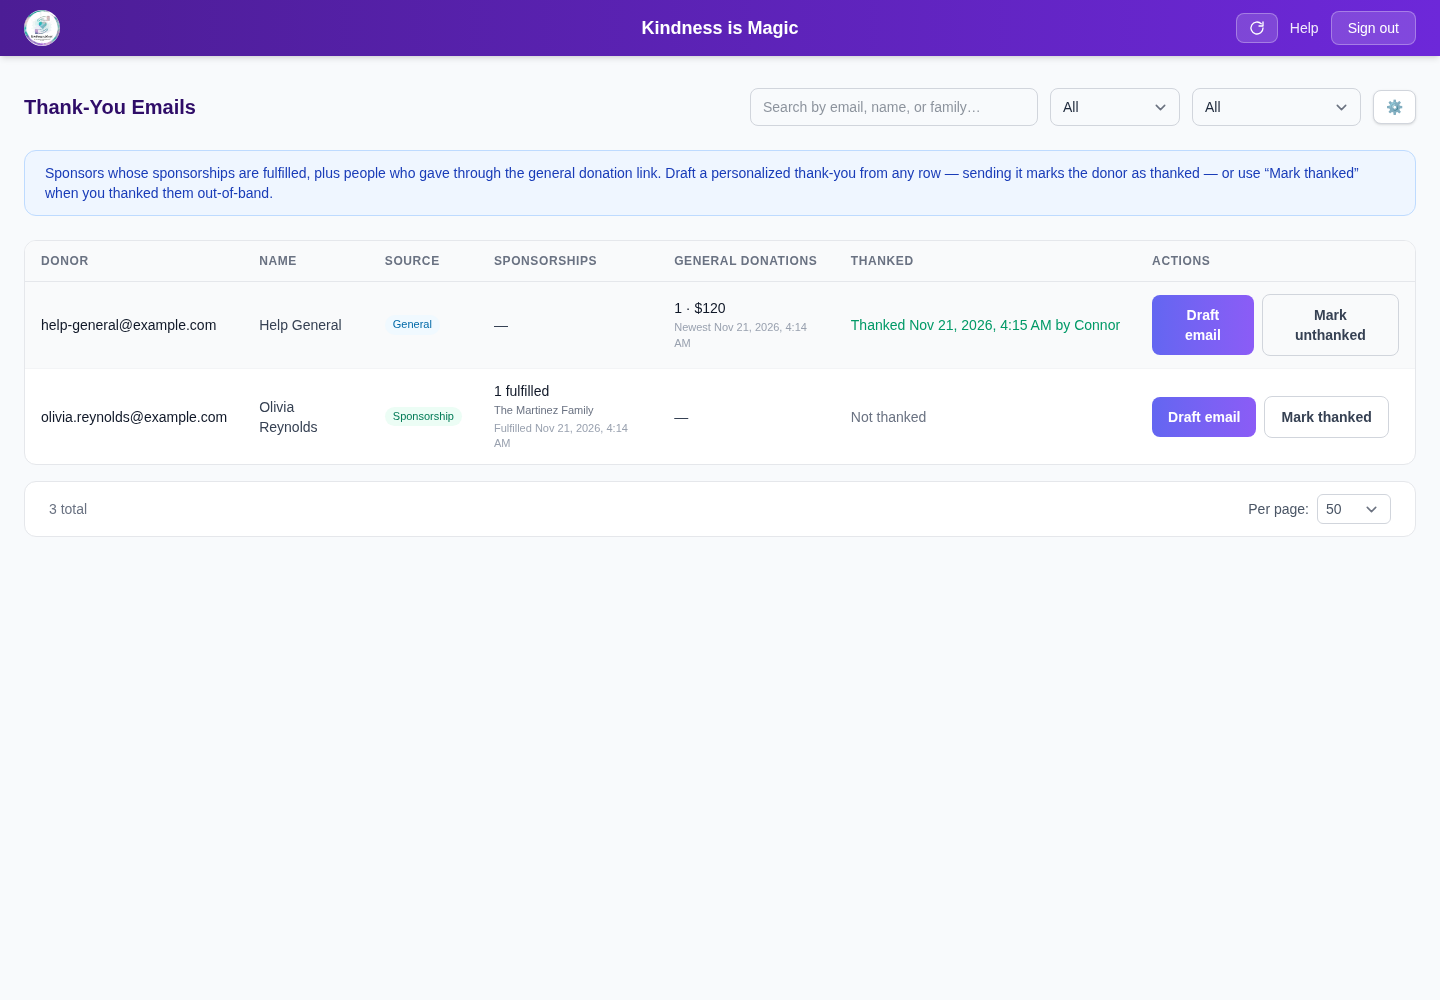
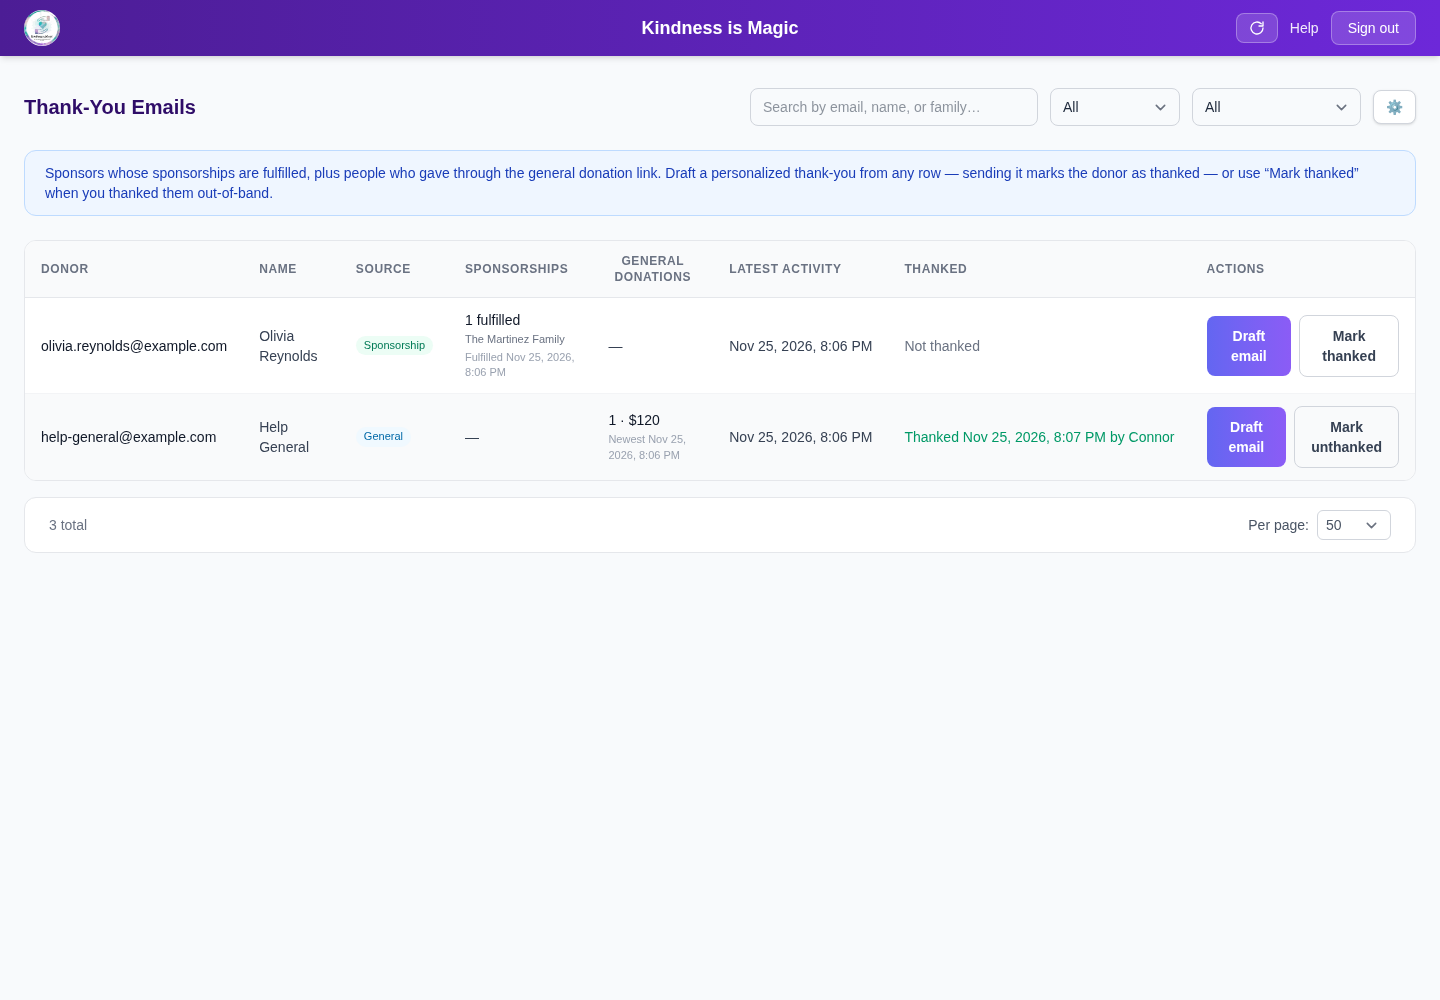
Added a 'most recent activity' thing for thank you email sort

diff --git a/frontend/src/pages/HelpAdmin.tsx b/frontend/src/pages/HelpAdmin.tsx
@@ -359,6 +359,10 @@ export default function HelpAdmin() {
                   with no email on the payment can't be listed — check the campaigns in the Zeffy dashboard for those.)
                 </li>
                 <li>
+                  <strong>Latest Activity</strong> shows the donor's most recent gift or fulfillment across both sides — the list is
+                  newest-first by default, so the donors you most recently owe a thank-you lead.
+                </li>
+                <li>
                   <strong>Thanked</strong> shows when the donor was marked thanked, and by whom. Unthanked donors read “Not thanked”.
                 </li>
               </ul>
@@ -376,8 +380,8 @@ export default function HelpAdmin() {
               </p>
               <h3>Finding a donor</h3>
               <p>
-                Search by donor email, name, or a sponsored family name, filter by thanked state and source, and click a column header to
-                sort — all to work through what's left.
+                The list is newest-first by default. Search by donor email, name, or a sponsored family name, filter by thanked state and
+                source, and click a column header to sort — all to work through what's left.
               </p>
             </>
           ),

diff --git a/frontend/src/pages/AdminThankYou.test.tsx b/frontend/src/pages/AdminThankYou.test.tsx
@@ -43,6 +43,7 @@ function makeDonor(overrides: Partial<ThankYouDonor> = {}): ThankYouDonor {
     general_payment_count: 0,
     general_total_cents: 0,
     latest_donation_at: null,
+    latest_activity_at: "2025-12-01T00:00:00Z",
     thanked_at: null,
     thanked_by_name: null,
     ...overrides,
@@ -84,6 +85,7 @@ describe("AdminThankYou", () => {
           general_payment_count: 2,
           general_total_cents: 12_500,
           latest_donation_at: "2025-12-10T00:00:00Z",
+          latest_activity_at: "2025-12-10T00:00:00Z",
           thanked_at: "2025-12-11T00:00:00Z",
           thanked_by_name: "Admin",
         })
@@ -100,6 +102,8 @@ describe("AdminThankYou", () => {
     expect(aliceRow).toHaveTextContent("The Example Family");
     expect(aliceRow).toHaveTextContent("Not thanked");
     expect(within(aliceRow).getByRole("button", { name: "Mark thanked" })).toBeInTheDocument();
+    // The Latest Activity column is sortable like the other derived columns
+    expect(screen.getByRole("button", { name: "Sort by Latest Activity" })).toBeInTheDocument();
 
     const bobRow = screen.getByText("bob@example.com").closest("tr")!;
     expect(bobRow).toHaveTextContent("General");

diff --git a/frontend/src/pages/AdminThankYou.tsx b/frontend/src/pages/AdminThankYou.tsx
@@ -57,6 +57,7 @@ const COLUMN_SORT_FIELD: Record<string, string | undefined> = {
   display_name: "display_name",
   sponsorships: "claim_count",
   general_donations: "general_total_cents",
+  latest_activity: "latest_activity_at",
   thanked: "thanked_at",
 };
 
@@ -67,6 +68,7 @@ const COLUMN_HEADERS: Record<string, string> = {
   source: "Source",
   sponsorships: "Sponsorships",
   general_donations: "General Donations",
+  latest_activity: "Latest Activity",
   thanked: "Thanked",
 };
 
@@ -317,6 +319,11 @@ export default function AdminThankYou() {
                         )}
                       </Td>
                     ),
+                  latest_activity: donor.latest_activity_at ? (
+                    <Td className="whitespace-nowrap text-sm text-gray-700">{formatDateTime(donor.latest_activity_at)}</Td>
+                  ) : (
+                    <Td className="text-sm text-gray-400">—</Td>
+                  ),
                   thanked: (
                     <Td className="whitespace-nowrap text-sm">
                       {donor.thanked_at ? (

diff --git a/frontend/src/types/columns.ts b/frontend/src/types/columns.ts
@@ -145,6 +145,7 @@ export const COLUMNS: Record<string, ColumnDef[]> = {
     { key: "source", label: "Source", visible: true },
     { key: "sponsorships", label: "Sponsorships", visible: true },
     { key: "general_donations", label: "General Donations", visible: true },
+    { key: "latest_activity", label: "Latest Activity", visible: true },
     { key: "thanked", label: "Thanked", visible: true },
   ],
   adminEmailCampaigns: [
@@ -208,5 +209,6 @@ export const COLUMN_FIELD_MAP: Record<string, string[]> = {
   // mark's timestamp + actor.
   sponsorships: ["claim_count", "claim_family_names", "latest_fulfilled_at"],
   general_donations: ["general_payment_count", "general_total_cents", "latest_donation_at"],
+  latest_activity: ["latest_activity_at"],
   thanked: ["thanked_at", "thanked_by_name"],
 };

diff --git a/frontend/src/hooks/useTableWidth.ts b/frontend/src/hooks/useTableWidth.ts
@@ -23,8 +23,8 @@ const DEFAULT_WIDTH_MODES: Record<string, TableWidthMode> = {
   // The purchaser's family column is hidden by default, so its table has
   // fewer columns than the other list pages — wide gives it more room.
   purchaserAssignedGifts: "wide",
-  // Six data columns plus a two-button action column — wide gives the
-  // multi-line cells room.
+  // Multi-line summary cells (counts, family lists, dates) plus a
+  // two-button action column — wide gives the table room.
   adminThankYou: "wide",
 };
 

diff --git a/frontend/src/types/domain.ts b/frontend/src/types/domain.ts
@@ -1010,6 +1010,8 @@ export interface ThankYouDonor {
   general_payment_count: number;
   general_total_cents: number;
   latest_donation_at: string | null;
+  /** Newest of the two side dates — non-null for every listable donor. */
+  latest_activity_at: string | null;
   /** Null until the admin marks the donor thanked (manual or via send). */
   thanked_at: string | null;
   thanked_by_name: string | null;

diff --git a/frontend/src/lib/thankYouDraft.test.ts b/frontend/src/lib/thankYouDraft.test.ts
@@ -12,6 +12,7 @@ const BASE: ThankYouDonor = {
   general_payment_count: 0,
   general_total_cents: 0,
   latest_donation_at: null,
+  latest_activity_at: null,
   thanked_at: null,
   thanked_by_name: null,
 };

diff --git a/backend/tests/test_admin_thank_you.py b/backend/tests/test_admin_thank_you.py
@@ -401,12 +401,18 @@ class TestListFiltering:
         assert test_client.get("/api/admin/thank-you", params={"search": "gIl"}).json()["total"] == 1
         assert test_client.get("/api/admin/thank-you", params={"search": "nobody"}).json()["total"] == 0
 
-    def test_sort_default_email_asc_and_desc(self, test_client: TestClient, admin_user, db: Session):
+    def test_sort_default_newest_activity(self, test_client: TestClient, admin_user, db: Session):
         self._seed(db)
         _login_admin(test_client)
 
+        # Default = -latest_activity_at: the two NOW-dated donors lead (the
+        # stable tie-break follows candidate insertion order — the claim
+        # side is collected before the general side), then the older
+        # fulfillments.
         default = [d["email"] for d in test_client.get("/api/admin/thank-you").json()["donors"]]
-        assert default == sorted(default)
+        assert default == ["both@test.com", "general-only@test.com", "claims2@test.com", "claims1@test.com"]
+        asc = [d["email"] for d in test_client.get("/api/admin/thank-you", params={"sort": "email"}).json()["donors"]]
+        assert asc == sorted(asc)
         desc = [d["email"] for d in test_client.get("/api/admin/thank-you", params={"sort": "-email"}).json()["donors"]]
         assert desc == sorted(desc, reverse=True)
 
@@ -417,7 +423,33 @@ class TestListFiltering:
         by_total = [d["email"] for d in test_client.get("/api/admin/thank-you", params={"sort": "-general_total_cents"}).json()["donors"]]
         assert by_total[0] == "general-only@test.com"  # 15000 > 9000 > 0
         unknown = test_client.get("/api/admin/thank-you", params={"sort": "nope"}).json()["donors"]
-        assert [d["email"] for d in unknown] == sorted(d["email"] for d in unknown)  # default email asc
+        # Unknown field falls back to the newest-activity default
+        assert [d["email"] for d in unknown] == [
+            "both@test.com",
+            "general-only@test.com",
+            "claims2@test.com",
+            "claims1@test.com",
+        ]
+
+    def test_latest_activity_spans_both_sides(self, test_client: TestClient, admin_user, db: Session):
+        """latest_activity_at is the max of the two side dates, so a
+        both-side donor sorts by whichever side is newer."""
+        sponsor = _donor(db, "sponsor@test.com", "Sue")
+        _claim(db, sponsor, _family(db, "The Sues"), fulfilled=NOW - timedelta(days=1))
+        both = _donor(db, "both@test.com", "Beth")
+        _claim(db, both, _family(db, "The Beths"), fulfilled=NOW - timedelta(days=2))
+        pay = _payment(db, "both-1", "both@test.com", name="Buyer Beth", amount_cents=9_000)  # NOW
+        _login_admin(test_client)
+
+        donors = {d["email"]: d for d in test_client.get("/api/admin/thank-you").json()["donors"]}
+        # The both-side donor's latest activity is its general donation (newer than its fulfillment)
+        assert donors["both@test.com"]["latest_activity_at"] == pay.created_at.isoformat().replace("+00:00", "Z")
+        assert donors["sponsor@test.com"]["latest_activity_at"] is not None
+
+        desc = [d["email"] for d in test_client.get("/api/admin/thank-you", params={"sort": "-latest_activity_at"}).json()["donors"]]
+        assert desc == ["both@test.com", "sponsor@test.com"]  # NOW > NOW-1d
+        asc = [d["email"] for d in test_client.get("/api/admin/thank-you", params={"sort": "latest_activity_at"}).json()["donors"]]
+        assert asc == ["sponsor@test.com", "both@test.com"]
 
     def test_columns_subset_and_always_include(self, test_client: TestClient, admin_user, db: Session):
         self._seed(db)
@@ -441,6 +473,7 @@ class TestListFiltering:
         } <= keys
         # Other fields follow the column selection
         assert "latest_fulfilled_at" not in keys
+        assert "latest_activity_at" not in keys
         assert "thanked_by_name" not in keys
 
     def test_columns_unknown_field_422(self, test_client: TestClient, admin_user, db: Session):

diff --git a/backend/app/admin_thank_you.py b/backend/app/admin_thank_you.py
@@ -63,7 +63,16 @@ thank_you_admin_router = APIRouter(
 # aggregates, so the sort runs in Python via parse_sort_field rather than a
 # SQLAlchemy column registry). "thanked_at" reads the donor's DonorThank row.
 THANK_YOU_SORT_FIELDS: frozenset[str] = frozenset(
-    {"email", "display_name", "claim_count", "general_total_cents", "latest_fulfilled_at", "latest_donation_at", "thanked_at"}
+    {
+        "email",
+        "display_name",
+        "claim_count",
+        "general_total_cents",
+        "latest_fulfilled_at",
+        "latest_donation_at",
+        "latest_activity_at",
+        "thanked_at",
+    }
 )
 
 # Sentinel so None datetimes sort to one end with a comparable key.
@@ -133,6 +142,11 @@ def _collect_candidates(db: Session) -> dict[str, dict]:
     The claim side runs first so the account's display name takes
     precedence over the buyer name (falling back to the *newest* buyer
     name — rows are oldest-first, so last write wins).
+
+    ``latest_activity_at`` — the newest of the two side dates — is derived
+    in the final pass: a listable candidate always has at least one side,
+    so it is non-null in practice (the default sort's newest-first order
+    must not sink single-side donors the way a None date would).
     """
     candidates: dict[str, dict] = {}
 
@@ -149,6 +163,7 @@ def _collect_candidates(db: Session) -> dict[str, dict]:
                 "general_payment_count": 0,
                 "general_total_cents": 0,
                 "latest_donation_at": None,
+                "latest_activity_at": None,
             },
         )
 
@@ -170,6 +185,8 @@ def _collect_candidates(db: Session) -> dict[str, dict]:
 
     for s in candidates.values():
         s["display_name"] = s["display_name"] or s["buyer_name"]
+        side_dates = [d for d in (s["latest_fulfilled_at"], s["latest_donation_at"]) if d is not None]
+        s["latest_activity_at"] = max(side_dates) if side_dates else None
     return candidates
 
 
@@ -276,8 +293,9 @@ def list_thank_you_donors(
     name; ``source`` narrows to a candidate kind; ``thanked`` filters by
     the thanked state. The derived rows sort in Python via
     ``parse_sort_field`` over ``THANK_YOU_SORT_FIELDS`` (``-`` prefix for
-    descending); the default is email ascending. Standard page envelope;
-    ``columns`` supported.
+    descending); the default is the newest activity first
+    (``-latest_activity_at``), so the donors who most recently gave lead.
+    Standard page envelope; ``columns`` supported.
     """
     candidates = _collect_candidates(db)
 
@@ -304,7 +322,7 @@ def list_thank_you_donors(
         if pattern:
             rows = [(c, t) for c, t in rows if _search_matches(c, pattern)]
 
-    field, descending = parse_sort_field(sort, THANK_YOU_SORT_FIELDS, "email")
+    field, descending = parse_sort_field(sort, THANK_YOU_SORT_FIELDS, "latest_activity_at", default_descending=True)
     rows.sort(key=lambda ct: _sort_key(ct[0], ct[1], field), reverse=descending)
 
     total = len(rows)

diff --git a/backend/app/search_sort.py b/backend/app/search_sort.py
@@ -67,21 +67,23 @@ def build_sort_clause(
     return col.desc() if descending else col.asc()
 
 
-def parse_sort_field(sort_param: str | None, allowed: frozenset[str], default: str) -> tuple[str, bool]:
+def parse_sort_field(sort_param: str | None, allowed: frozenset[str], default: str, default_descending: bool = False) -> tuple[str, bool]:
     """Parse a ``sort`` query param into ``(field, descending)``.
 
     Same param format as :func:`build_sort_clause` (``field`` ascending,
     ``-field`` descending). Missing, empty, or unknown fields yield
-    *default* ascending. For list endpoints that sort in Python
+    *default* in *default_descending*'s direction (ascending unless set) —
+    the Python-sorted counterpart of :func:`build_sort_clause`'s default
+    clause, which may be descending. For list endpoints that sort in Python
     (derived/aggregated rows) instead of via a SQLAlchemy column registry.
     """
     if not sort_param:
-        return default, False
+        return default, default_descending
 
     descending = sort_param.startswith("-")
     field = sort_param[1:] if descending else sort_param
     if field not in allowed:
-        return default, False
+        return default, default_descending
     return field, descending
 
 

diff --git a/backend/app/response_builders.py b/backend/app/response_builders.py
@@ -184,6 +184,7 @@ def build_thank_you_donor(candidate: dict, thanks: DonorThank | None, thanked_by
         general_payment_count=candidate["general_payment_count"],
         general_total_cents=candidate["general_total_cents"],
         latest_donation_at=candidate["latest_donation_at"],
+        latest_activity_at=candidate["latest_activity_at"],
         thanked_at=thanks.thanked_at if thanks is not None else None,
         thanked_by_name=thanked_by_name,
     )

diff --git a/backend/app/schemas.py b/backend/app/schemas.py
@@ -2217,6 +2217,8 @@ class ThankYouDonor(BaseModel):
     general_payment_count: int = 0
     general_total_cents: int = 0
     latest_donation_at: datetime | None = None
+    # Newest of the two side dates — non-null for every listable row.
+    latest_activity_at: datetime | None = None
     # Thanked state — null until the admin marks it (manual or via send).
     thanked_at: datetime | None = None
     thanked_by_name: str | None = None
